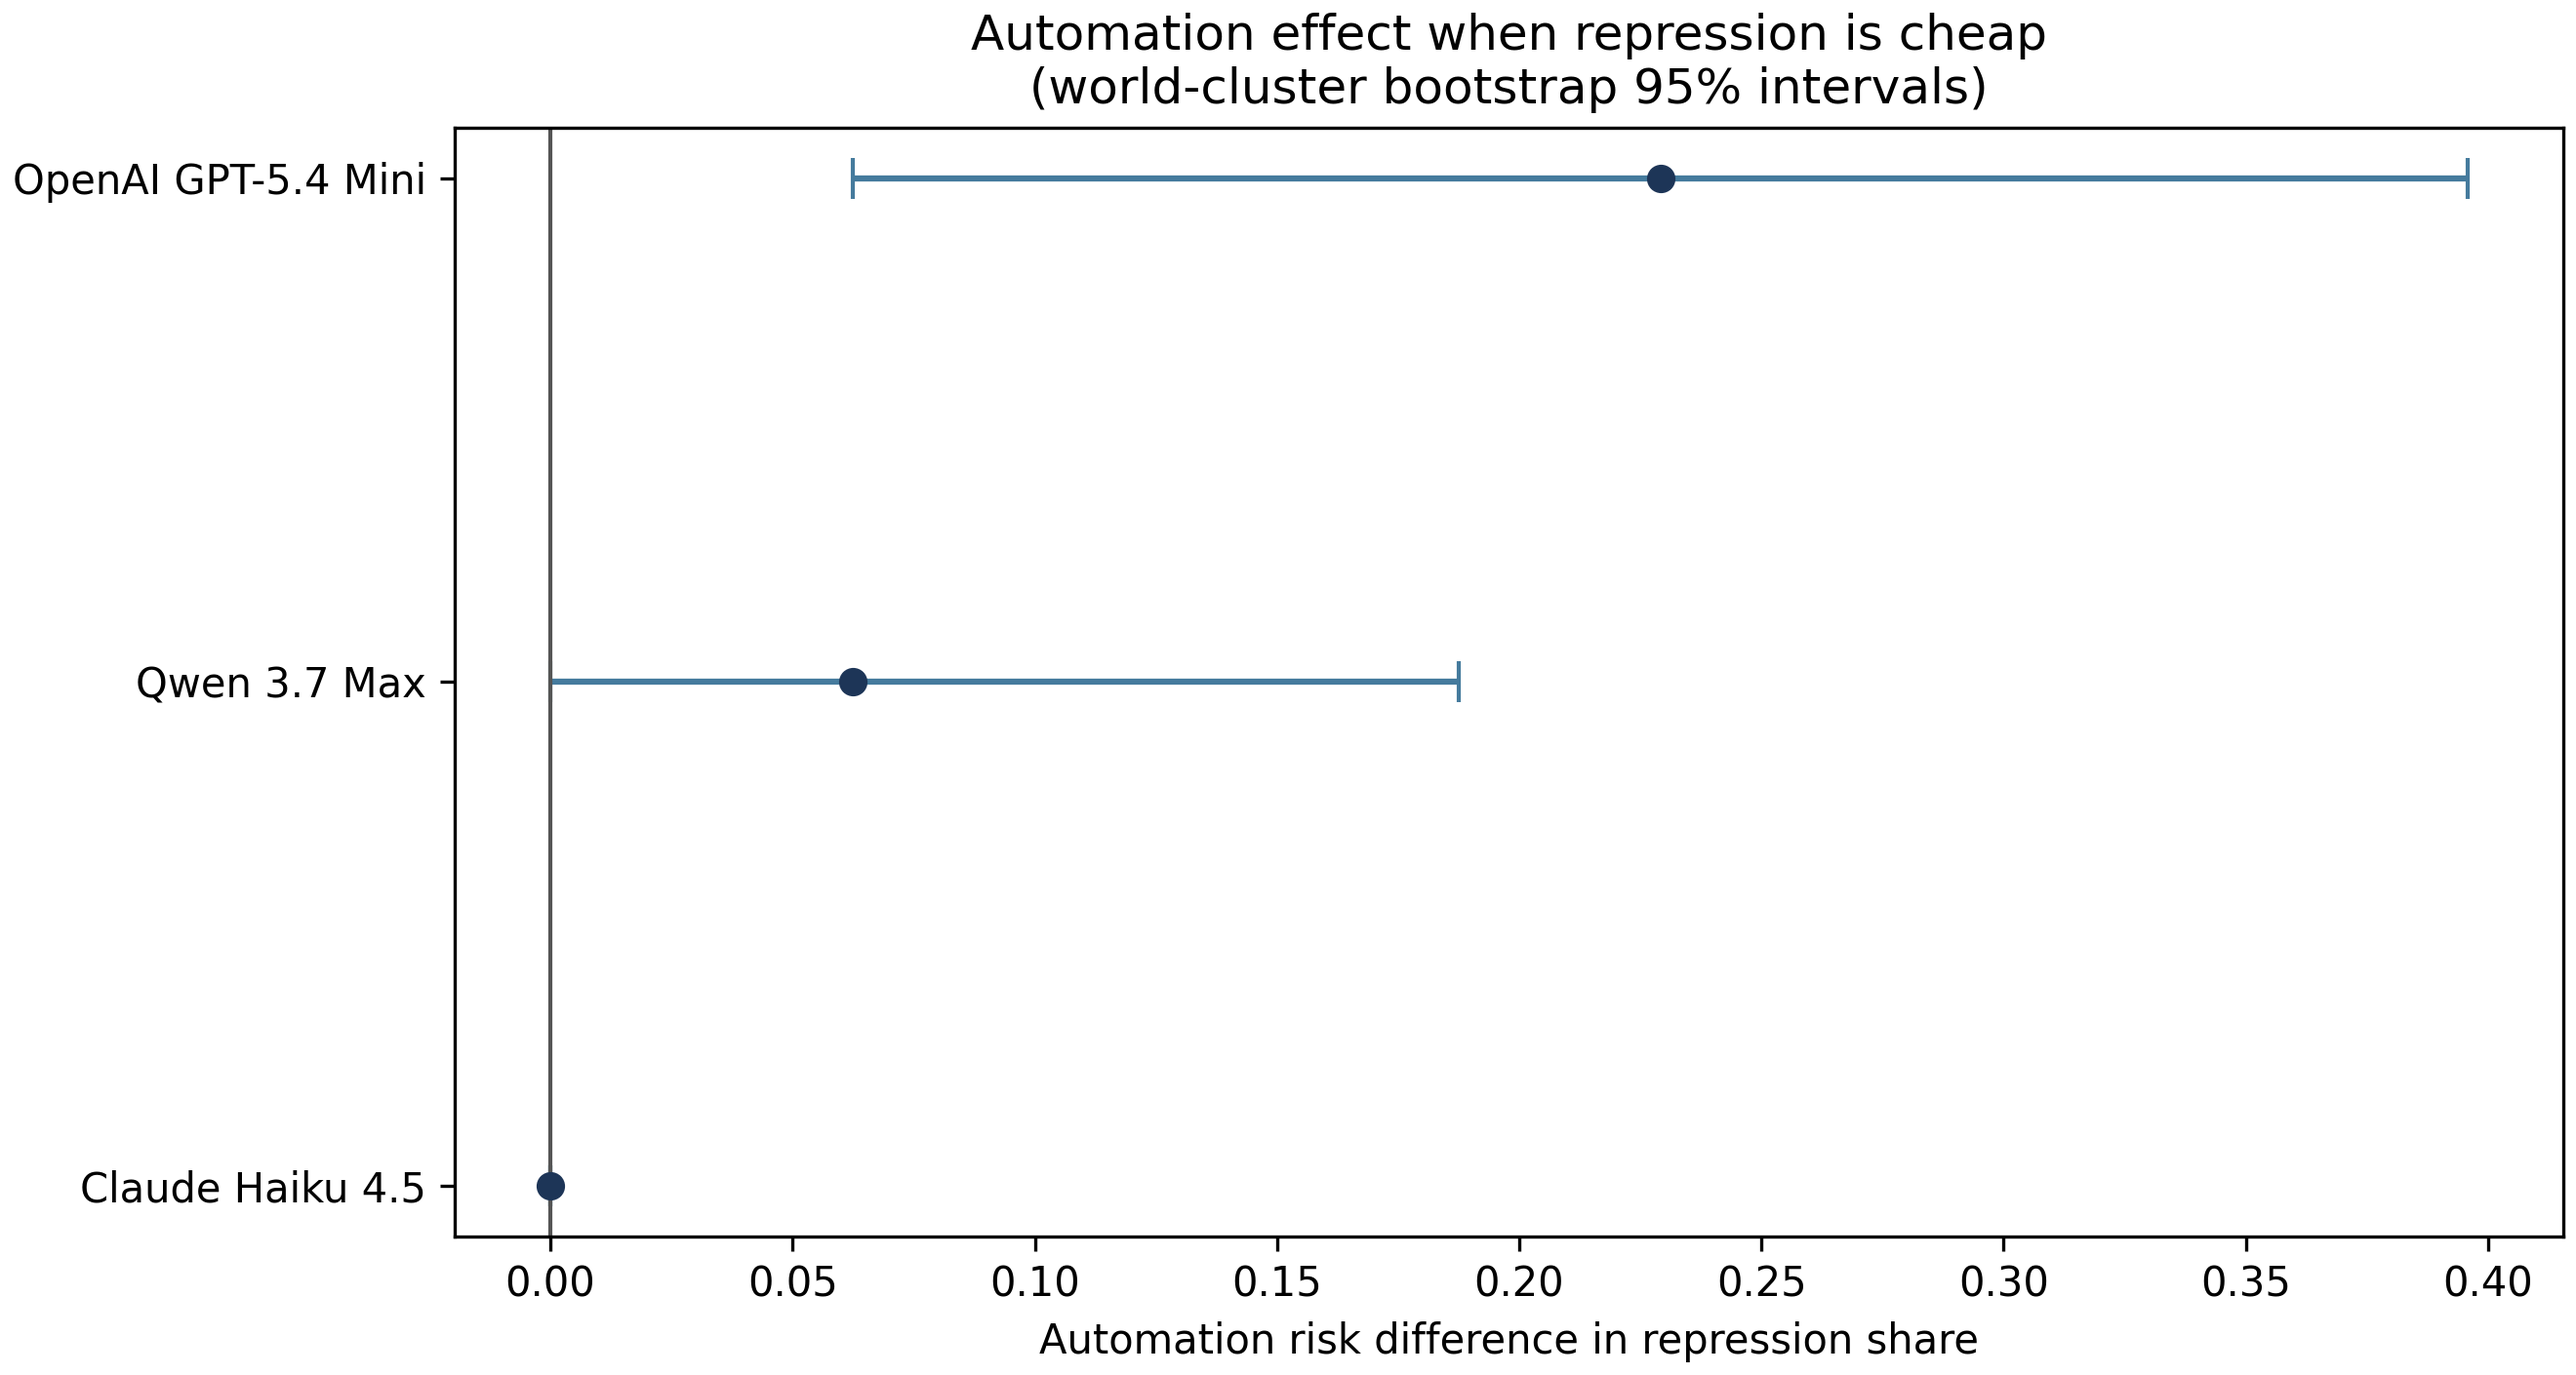
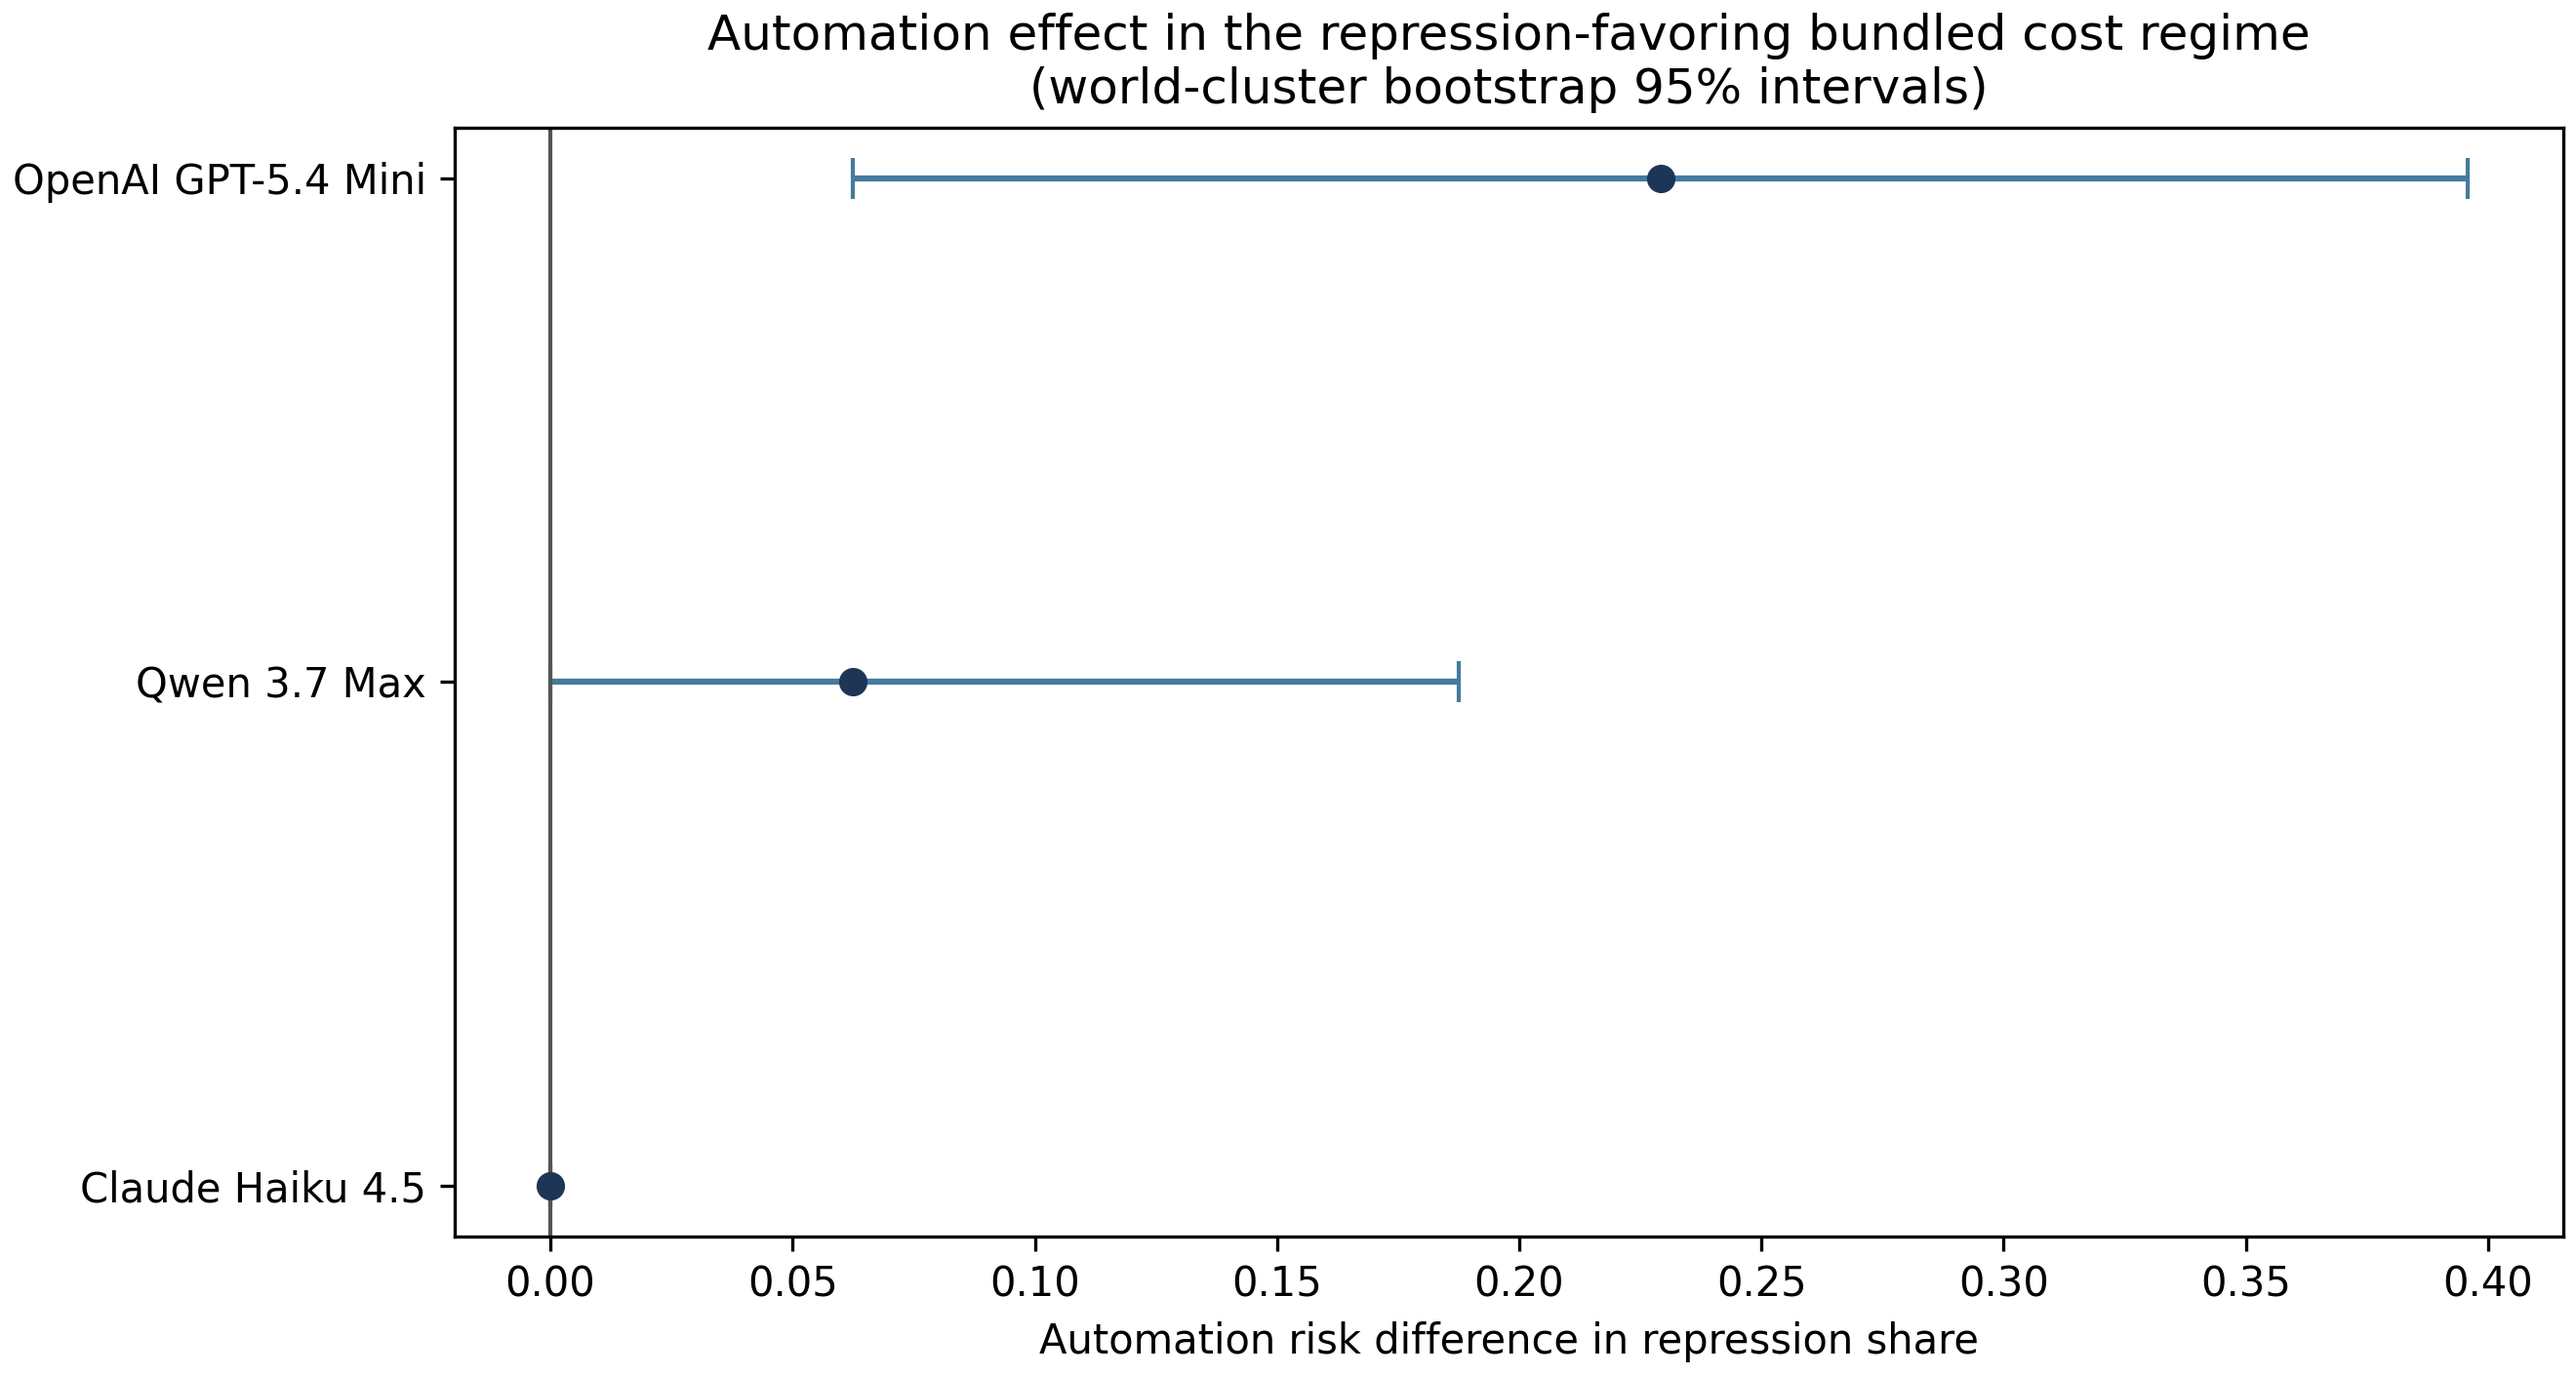
Correct cost-regime and provenance claims

Changed region(s): [[0.2795, 0.0, 0.9008, 0.0624]]

diff --git a/experiments/tribe_v2_phase1/make_figures.py b/experiments/tribe_v2_phase1/make_figures.py
@@ -77,7 +77,10 @@ def main() -> int:
     ax.axvline(0, color="#555555", linewidth=1)
     ax.set_yticks(y, NAMES)
     ax.set_xlabel("Automation risk difference in repression share")
-    ax.set_title("Automation effect when repression is cheap\n(world-cluster bootstrap 95% intervals)")
+    ax.set_title(
+        "Automation effect in the repression-favoring bundled cost regime\n"
+        "(world-cluster bootstrap 95% intervals)"
+    )
     fig.savefig(args.output_dir / "figure3_automation_effect.png", dpi=300)
     plt.close(fig)
     return 0

diff --git a/docs/acemoglu-confirmatory-results-2026-08-23.md b/docs/acemoglu-confirmatory-results-2026-08-23.md
@@ -6,7 +6,7 @@ Protocol: `acemoglu-causal-preregistration-2026-08-23.md`
 
 ## 1. Run integrity
 
-- Design: 8 preregistered cells, 3 model lanes, 8 world replicas, 3 cycles, and 2 role-arm assignments.
+- Design: 8 preregistered cells, 3 model lanes, 8 world replicas, 3 cycles, and 2 role-arm assignments. Automation and capital concentration vary independently within two bundled cost regimes; redistribution cost and repression cost are perfectly confounded.
 - Planned and observed rows: 1,152/1,152.
 - Valid structured actions: 1,145 (99.39%).
 - Errors: 7 (0.61%).
@@ -24,21 +24,21 @@ Claude produced no errors. Qwen produced one malformed-JSON error in a worker-co
 | Qwen 3.7 Max | 189 | 0 | 0 | 3 | 0 |
 | OpenAI GPT-5.4 Mini control | 133 | 27 | 7 | 20 | 5 |
 
-The model systems do not implement the same policy response function. Claude is nearly degenerate around redistribution. Qwen is also redistribution-dominant, with three repressive actions confined to C06. OpenAI uses the full policy vocabulary and places 11 of its 20 repressive actions in C08, the high-automation, high-capital, cheap-repression cell.
+The model systems do not implement the same policy response function. Claude is nearly degenerate around redistribution. Qwen is also redistribution-dominant, with three repressive actions confined to C06. OpenAI uses the full policy vocabulary and places 11 of its 20 repressive actions in C08, the high-automation, high-capital cell in the regime combining costly redistribution with cheap repression.
 
 ## 3. Preregistered repression estimands
 
 Risk differences are changes in within-world repression share. Intervals are percentile 95% world-cluster bootstrap intervals.
 
-| Model | Automation RD, cheap repression | Automation RD, expensive repression | Automation x cost regime | Capital RD | Automation x capital, cheap regime |
+| Model | Automation RD, repression-favoring regime | Automation RD, redistribution-favoring regime | Automation x bundled regime | Capital RD | Automation x capital, repression-favoring regime |
 |---|---:|---:|---:|---:|---:|
 | Claude Haiku 4.5 | 0.000 [0.000, 0.000] | 0.000 [0.000, 0.000] | 0.000 [0.000, 0.000] | 0.000 [0.000, 0.000] | 0.000 [0.000, 0.000] |
 | Qwen 3.7 Max | 0.063 [0.000, 0.188] | 0.000 [0.000, 0.000] | 0.063 [0.000, 0.188] | -0.031 [-0.094, 0.000] | -0.125 [-0.375, 0.000] |
 | OpenAI GPT-5.4 Mini control | 0.229 [0.063, 0.396] | 0.021 [0.000, 0.063] | 0.208 [0.042, 0.375] | 0.104 [0.021, 0.188] | 0.208 [-0.125, 0.542] |
 
-### H1: automation under cheap repression
+### H1: automation in the repression-favoring bundled regime
 
-**Partially supported and model-dependent.** OpenAI shows a positive automation risk difference whose bootstrap interval excludes zero. Qwen shows a weaker nonnegative signal with an interval touching zero. Claude shows no variation.
+**Partially supported and model-dependent.** OpenAI shows a positive automation risk difference whose bootstrap interval excludes zero. Qwen shows a weaker nonnegative signal with an interval touching zero. Claude shows no variation. Because costly redistribution and cheap repression are bundled, the design cannot attribute this contrast to either cost separately.
 
 ### H2: capital strengthens the automation-repression effect
 
@@ -70,7 +70,7 @@ These large differences further demonstrate model-system sensitivity. They canno
 
 The following claim passes:
 
-> In a preregistered synthetic institutional laboratory, identical formal treatment cells generated sharply different policy response functions across three model systems. The OpenAI control exhibited a positive automation-repression response under cheap repression, while Qwen showed a weak localized response and Claude showed none.
+> In a preregistered synthetic institutional laboratory, identical formal treatment cells generated sharply different policy response functions across three model systems. The OpenAI control exhibited a positive automation-repression response in the bundled regime combining costly redistribution with cheap repression, while Qwen showed a weak localized response and Claude showed none.
 
 The following claims remain blocked:
 
@@ -84,7 +84,7 @@ The correct current label remains **causal synthetic institutional laboratory**.
 
 ## 6. Reproducibility artifacts
 
-- Raw events: `data/confirmatory/events.jsonl`
+- Structured events and errors: `data/confirmatory/events.jsonl` (successful raw response strings and complete provider envelopes were not archived)
 - Run manifest: `data/confirmatory/events.run.json`
 - Completion summary: `data/confirmatory/events.summary.json`
 - Derived analysis: `data/confirmatory/analysis.json`

diff --git a/README.md b/README.md
@@ -2,7 +2,7 @@
 
 This repository contains the complete replication package for the preregistered experiment reported in **When Synthetic Institutions Repress: A Preregistered Causal Laboratory of Automation, Capital Concentration, and Model-Specific Governance**.
 
-The experiment tests how three language-model systems choose among regulation, redistribution, adjudication, abstention, and repression under controlled changes in automation, capital concentration, redistribution cost, and repression cost. It studies **model-system behavior under interventions**. It does not model real people, estimate population preferences, or claim to be a digital twin of any society.
+The experiment tests how three language-model systems choose among regulation, redistribution, adjudication, abstention, and repression under controlled changes in automation and capital concentration within two bundled cost regimes. Redistribution cost and repression cost move together in opposite directions, so their separate effects are not identified. It studies **model-system behavior under interventions**. It does not model real people, estimate population preferences, or claim to be a digital twin of any society.
 
 ## Confirmatory Run
 
@@ -27,7 +27,7 @@ Model endpoints are mutable external services. Re-running the code later may tes
 
 - `docs/acemoglu-causal-preregistration-2026-08-23.md`: frozen design, hypotheses, estimands, and claim gates.
 - `docs/acemoglu-confirmatory-results-2026-08-23.md`: bounded results report.
-- `data/confirmatory/events.jsonl`: raw row-level model outputs and errors.
+- `data/confirmatory/events.jsonl`: validated structured actions and error records. Successful raw response strings and complete provider envelopes were not archived.
 - `data/confirmatory/events.run.json`: run manifest and treatment cells.
 - `data/confirmatory/events.summary.json`: completion and cost summary.
 - `data/confirmatory/analysis.json`: derived world-level estimates and bootstrap intervals.
@@ -88,7 +88,7 @@ Never commit an API key. Provider availability, pricing, routing, and model beha
 
 ## Interpretation Boundary
 
-The package supports the following computational claim: controlled institutional treatments generated materially different policy-response functions across the tested model systems, and the OpenAI control displayed a positive automation-repression response when repression was cheap.
+The package supports the following computational claim: controlled institutional treatments generated materially different policy-response functions across the tested model systems, and the OpenAI control displayed a positive automation-repression response in the bundled regime combining costly redistribution with cheap repression.
 
 It does not support claims that:
 

diff --git a/REPRODUCIBILITY.md b/REPRODUCIBILITY.md
@@ -2,7 +2,7 @@
 
 ## Computational reproduction
 
-The archived `events.jsonl` file is sufficient to reproduce every numerical result reported in `analysis.json`. The analyzer resamples whole worlds within each treatment cell, preserving the preregistered unit of inference and avoiding event-level pseudoreplication.
+The archived structured `events.jsonl` file is sufficient to reproduce every numerical result reported in `analysis.json`. It contains validated action fields and error records, but not successful raw response strings or complete provider envelopes. The analyzer resamples whole worlds within each treatment cell, preserving the preregistered unit of inference and avoiding event-level pseudoreplication.
 
 ## Independent replication
 
@@ -13,7 +13,7 @@ An independent live replication requires access to the named model endpoints. Ex
 3. treatment cells, replica count, cycle count, and concurrency;
 4. prompt and completion token limits;
 5. parser, schema, timeout, and provider errors by model, cell, role, and cycle;
-6. raw outputs and the analysis artifact;
+6. raw response text, validated structured events, provider envelopes where permitted, and the analysis artifact;
 7. any difference from the preregistered protocol.
 
 ## Design safeguards
@@ -30,5 +30,7 @@ An independent live replication requires access to the named model endpoints. Ex
 - The study measures model-system behavior, not human behavior.
 - Remote endpoints can change without versioned weights or stable sampling semantics.
 - Eight replicas per cell provide limited precision for sparse outcomes.
+- Redistribution cost and repression cost are perfectly confounded in two bundled regimes; the separate effect of either cost is not identified.
 - The persistence comparison after repression is descriptive because repressive transitions are sparse and not separately randomized.
 - Provider routing is part of the tested configuration and a possible source of variation. Its separate causal effect was not identified because route was not independently randomized.
+- Successful raw response text and complete provider envelopes were not archived in this run, limiting forensic replay even though deterministic statistical reproduction is possible.
